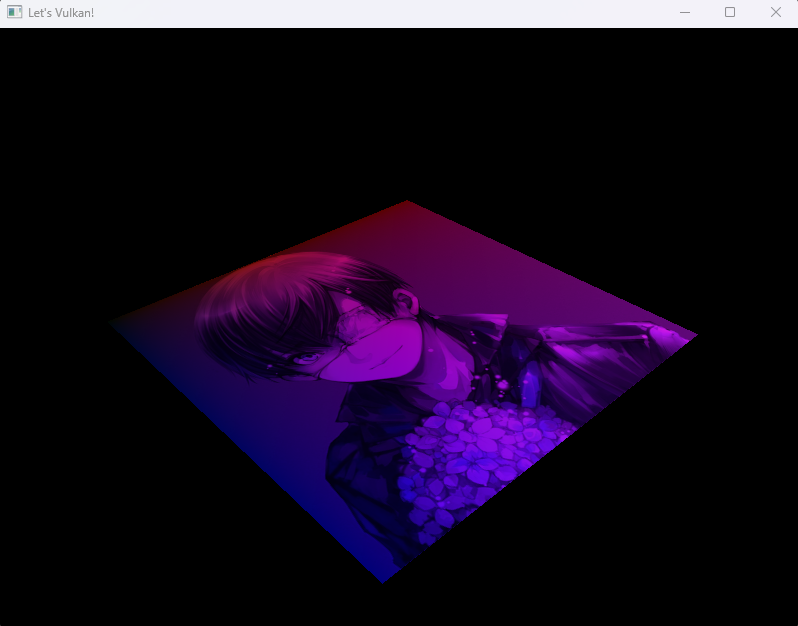
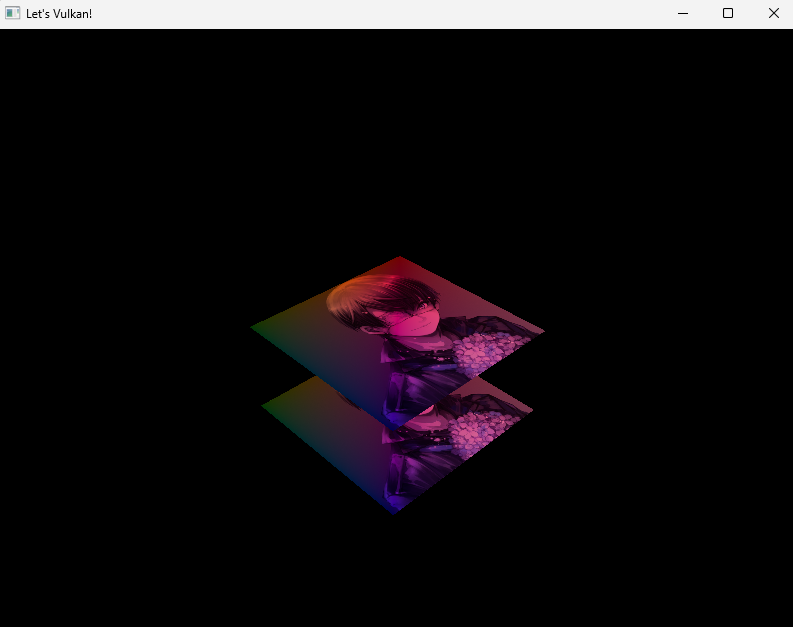
depth buffering

diff --git a/LearningVulkan/LearningVulkan.cpp b/LearningVulkan/LearningVulkan.cpp
@@ -7,6 +7,7 @@
 #define GLFW_EXPOSE_NATIVE_WIN32
 #include <GLFW/glfw3native.h>
 #define GLM_FORCE_RADIANS
+#define GLM_FORCE_DEPTH_ZERO_TO_ONE
 #include <glm/glm.hpp>
 #include <glm/gtc/matrix_transform.hpp>
 #define STB_IMAGE_IMPLEMENTATION
@@ -42,7 +43,7 @@ constexpr bool enableValidationLayers = true;
 
 
 struct Vertex {
-    glm::vec2 pos;
+    glm::vec3 pos;
     glm::vec3 color;
     glm::vec2 texCoord;
 
@@ -53,21 +54,28 @@ struct Vertex {
 
     static std::array<vk::VertexInputAttributeDescription, 3> getAttributeDescriptions()
     {
-        return { { { .location = 0, .binding = 0, .format = vk::Format::eR32G32Sfloat, .offset = offsetof(Vertex, pos) },
+        return { { { .location = 0, .binding = 0, .format = vk::Format::eR32G32B32Sfloat, .offset = offsetof(Vertex, pos) },
                  { .location = 1, .binding = 0, .format = vk::Format::eR32G32B32Sfloat, .offset = offsetof(Vertex, color) },
                  { .location = 2, .binding = 0, .format = vk::Format::eR32G32Sfloat, .offset = offsetof(Vertex, texCoord) } } };
     }
 };
 
 const std::vector<Vertex> vertices = {
-    { { -1.0f, -1.0f },{ 1.0f, 0.0f, 0.0f },{ 1.0f, 0.0f } },
-    { { 1.0f, -1.0f },{ 0.0f, 1.0f, 0.0f },{ 0.0f, 0.0f } },
-    { { 1.0f, 1.0f },{ 0.0f, 0.0f, 1.0f },{ 0.0f, 1.0f } },
-    { { -1.0f, 1.0f },{ 1.0f, 1.0f, 1.0f },{ 1.0f, 1.0f } }
+    { { -0.5f, -0.5f, 0.0f },{ 1.0f, 0.0f, 0.0f },{ 0.0f, 0.0f } },
+    { { 0.5f, -0.5f, 0.0f },{ 0.0f, 1.0f, 0.0f },{ 1.0f, 0.0f } },
+    { { 0.5f, 0.5f, 0.0f },{ 0.0f, 0.0f, 1.0f },{ 1.0f, 1.0f } },
+    { { -0.5f, 0.5f, 0.0f },{ 1.0f, 1.0f, 1.0f },{ 0.0f, 1.0f } },
+
+    { { -0.5f, -0.5f, -0.5f },{ 1.0f, 0.0f, 0.0f },{ 0.0f, 0.0f } },
+    { { 0.5f, -0.5f, -0.5f },{ 0.0f, 1.0f, 0.0f },{ 1.0f, 0.0f } },
+    { { 0.5f, 0.5f, -0.5f },{ 0.0f, 0.0f, 1.0f },{ 1.0f, 1.0f } },
+    { { -0.5f, 0.5f, -0.5f },{ 1.0f, 1.0f, 1.0f },{ 0.0f, 1.0f } }
 };
 
 const std::vector<uint16_t> indices = {
-    0, 1, 2, 2, 3, 0 };
+    0, 1, 2, 2, 3, 0,
+    4, 5, 6, 6, 7, 4
+};
 
 struct UniformBufferObject
 {
@@ -103,6 +111,10 @@ private:
     vk::raii::DescriptorPool            descriptorPool          = nullptr;
     vk::raii::CommandPool               commandPool             = nullptr;
 
+    vk::raii::Image                     depthImage              = nullptr;
+    vk::raii::DeviceMemory              depthImageMemory        = nullptr;
+    vk::raii::ImageView                 depthImageView          = nullptr;
+
     vk::raii::Image                     textureImage            = nullptr;
     vk::raii::DeviceMemory              textureImageMemory      = nullptr;
     vk::raii::ImageView                 textureImageView        = nullptr;
@@ -129,7 +141,10 @@ private:
     vk::SurfaceFormatKHR                swapChainSurfaceFormat;
 
 
-    std::vector<const char*>            requiredDeviceExtension = { vk::KHRSwapchainExtensionName };
+    std::vector<const char*> requiredDeviceExtension = {
+        vk::KHRSwapchainExtensionName,
+        vk::KHRSpirv14ExtensionName,
+        vk::KHRSynchronization2ExtensionName };
 
     uint32_t                            queueIndex = ~0;
     uint32_t                            frameIndex = 0;
@@ -165,6 +180,7 @@ private:
         createDescriptorSetLayout();
         createGraphicsPipeline();
         createCommandPool();
+        createDepthResources();
         createTextureImage();
         createTextureImageView();
         createTextureSampler();
@@ -177,9 +193,39 @@ private:
         createSyncObjects();
     }
 
+    void createDepthResources()
+    {
+        vk::Format depthFormat = findDepthFormat();
+
+        std::tie(depthImage, depthImageMemory) = createImage(swapChainExtent.width, swapChainExtent.height, depthFormat, vk::ImageTiling::eOptimal, vk::ImageUsageFlagBits::eDepthStencilAttachment, vk::MemoryPropertyFlagBits::eDeviceLocal);
+        depthImageView = createImageView(depthImage, depthFormat, vk::ImageAspectFlagBits::eDepth);
+    }
+
+    vk::Format findSupportedFormat(const std::vector<vk::Format>& candidates, vk::ImageTiling tiling, vk::FormatFeatureFlags features)
+    {
+        for (const auto format : candidates)
+        {
+            vk::FormatProperties props = physicalDevice.getFormatProperties(format);
+            if (((tiling == vk::ImageTiling::eLinear) && ((props.linearTilingFeatures & features) == features)) ||
+                ((tiling == vk::ImageTiling::eOptimal) && ((props.optimalTilingFeatures & features) == features)))
+            {
+                return format;
+            }
+        }
+
+        throw std::runtime_error("failed to find supported format!");
+    }
+
+    vk::Format findDepthFormat()
+    {
+        return findSupportedFormat({ vk::Format::eD32Sfloat, vk::Format::eD32SfloatS8Uint, vk::Format::eD24UnormS8Uint },
+            vk::ImageTiling::eOptimal,
+            vk::FormatFeatureFlagBits::eDepthStencilAttachment);
+    }
+
     void createTextureImageView()
     {
-        textureImageView = createImageView(*textureImage, vk::Format::eR8G8B8A8Srgb);
+        textureImageView = createImageView(*textureImage, vk::Format::eR8G8B8A8Srgb, vk::ImageAspectFlagBits::eColor);
     }
 
     void createTextureSampler()
@@ -199,13 +245,13 @@ private:
         textureSampler = vk::raii::Sampler(device, samplerInfo);
     }
 
-    vk::raii::ImageView createImageView(vk::Image const& image, vk::Format format)
+    vk::raii::ImageView createImageView(vk::Image const& image, vk::Format format, vk::ImageAspectFlags aspectFlags)
     {
         vk::ImageViewCreateInfo viewInfo{
             .image = image,
             .viewType = vk::ImageViewType::e2D,
             .format = format,
-            .subresourceRange = { .aspectMask = vk::ImageAspectFlagBits::eColor, .baseMipLevel = 0, .levelCount = 1, .baseArrayLayer = 0, .layerCount = 1 } };
+            .subresourceRange = { .aspectMask = aspectFlags, .baseMipLevel = 0, .levelCount = 1, .baseArrayLayer = 0, .layerCount = 1 } };
         return vk::raii::ImageView(device, viewInfo);
     }
 
@@ -501,6 +547,7 @@ private:
 
         createSwapChain();
         createImageViews();
+        createDepthResources();
         createGraphicsPipeline();
 
         for (size_t i = 0; i < swapChainImages.size(); ++i)
@@ -623,13 +670,14 @@ private:
     }
 
     void transition_image_layout(
-        uint32_t                imageIndex,
+        vk::Image               image,
         vk::ImageLayout         old_layout,
         vk::ImageLayout         new_layout,
         vk::AccessFlags2        src_access_mask,
         vk::AccessFlags2        dst_access_mask,
         vk::PipelineStageFlags2 src_stage_mask,
-        vk::PipelineStageFlags2 dst_stage_mask)
+        vk::PipelineStageFlags2 dst_stage_mask,
+        vk::ImageAspectFlags    image_aspect_flags)
     {
         vk::ImageMemoryBarrier2 barrier = {};
         barrier.srcStageMask = src_stage_mask;
@@ -640,9 +688,9 @@ private:
         barrier.newLayout = new_layout;
         barrier.srcQueueFamilyIndex = VK_QUEUE_FAMILY_IGNORED;
         barrier.dstQueueFamilyIndex = VK_QUEUE_FAMILY_IGNORED;
-        barrier.image = swapChainImages[imageIndex];
+        barrier.image = image;
         barrier.subresourceRange = {
-               barrier.subresourceRange.aspectMask = vk::ImageAspectFlagBits::eColor,
+               barrier.subresourceRange.aspectMask = image_aspect_flags,
                barrier.subresourceRange.baseMipLevel = 0,
                barrier.subresourceRange.levelCount = 1,
                barrier.subresourceRange.baseArrayLayer = 0,
@@ -660,30 +708,53 @@ private:
         commandBuffer.begin({});
 
         transition_image_layout(
-            imageIndex,
+            swapChainImages[imageIndex],
             vk::ImageLayout::eUndefined,
             vk::ImageLayout::eColorAttachmentOptimal,
             {},
             vk::AccessFlagBits2::eColorAttachmentWrite,
             vk::PipelineStageFlagBits2::eColorAttachmentOutput,
-            vk::PipelineStageFlagBits2::eColorAttachmentOutput
+            vk::PipelineStageFlagBits2::eColorAttachmentOutput,
+            vk::ImageAspectFlagBits::eColor
+        );
+
+        transition_image_layout(
+            *depthImage,
+            vk::ImageLayout::eUndefined,
+            vk::ImageLayout::eDepthAttachmentOptimal,
+            vk::AccessFlagBits2::eDepthStencilAttachmentWrite,
+            vk::AccessFlagBits2::eDepthStencilAttachmentWrite,
+            vk::PipelineStageFlagBits2::eEarlyFragmentTests | vk::PipelineStageFlagBits2::eLateFragmentTests,
+            vk::PipelineStageFlagBits2::eEarlyFragmentTests | vk::PipelineStageFlagBits2::eLateFragmentTests,
+            vk::ImageAspectFlagBits::eDepth
         );
         vk::ClearValue clearColor = vk::ClearColorValue(0.0f, 0.0f, 0.0f, 1.0f);
-        vk::RenderingAttachmentInfo attachmentInfo = {};
-        attachmentInfo.imageView = swapChainImageViews[imageIndex];
-        attachmentInfo.imageLayout = vk::ImageLayout::eColorAttachmentOptimal;
-        attachmentInfo.loadOp = vk::AttachmentLoadOp::eClear;
-        attachmentInfo.storeOp = vk::AttachmentStoreOp::eStore;
-        attachmentInfo.clearValue = clearColor;
+        vk::ClearValue clearDepth = vk::ClearDepthStencilValue(1.0f, 0);
+
+        vk::RenderingAttachmentInfo colorAttachmentInfo = {};
+        colorAttachmentInfo.imageView = swapChainImageViews[imageIndex];
+        colorAttachmentInfo.imageLayout = vk::ImageLayout::eColorAttachmentOptimal;
+        colorAttachmentInfo.loadOp = vk::AttachmentLoadOp::eClear;
+        colorAttachmentInfo.storeOp = vk::AttachmentStoreOp::eStore;
+        colorAttachmentInfo.clearValue = clearColor;
+
+        vk::RenderingAttachmentInfo depthAttachmentInfo = {
+            .imageView = depthImageView,
+            .imageLayout = vk::ImageLayout::eDepthAttachmentOptimal,
+            .loadOp = vk::AttachmentLoadOp::eClear,
+            .storeOp = vk::AttachmentStoreOp::eDontCare,
+            .clearValue = clearDepth };
+
         vk::RenderingInfo renderingInfo = {};
         renderingInfo.renderArea = { .offset = { 0, 0 }, .extent = swapChainExtent };
         renderingInfo.layerCount = 1;
         renderingInfo.colorAttachmentCount = 1;
-        renderingInfo.pColorAttachments = &attachmentInfo;
+        renderingInfo.pColorAttachments = &colorAttachmentInfo;
+        renderingInfo.pDepthAttachment = &depthAttachmentInfo;
 
         commandBuffer.beginRendering(renderingInfo);
         commandBuffer.bindPipeline(vk::PipelineBindPoint::eGraphics, *graphicsPipeline);
-        // negative height flips Y for Vulkan.
+        
         commandBuffer.setViewport(0, vk::Viewport(0.0f, static_cast<float>(swapChainExtent.height), static_cast<float>(swapChainExtent.width), -static_cast<float>(swapChainExtent.height), 0.0f, 1.0f));
         commandBuffer.setScissor(0, vk::Rect2D(vk::Offset2D(0, 0), swapChainExtent));
         commandBuffer.bindVertexBuffers(0, *vertexBuffer, { 0 });
@@ -693,13 +764,14 @@ private:
         commandBuffer.endRendering();
 
         transition_image_layout(
-            imageIndex,
+            swapChainImages[imageIndex],
             vk::ImageLayout::eColorAttachmentOptimal,
             vk::ImageLayout::ePresentSrcKHR,
             vk::AccessFlagBits2::eColorAttachmentWrite,
             {},
             vk::PipelineStageFlagBits2::eColorAttachmentOutput,
-            vk::PipelineStageFlagBits2::eBottomOfPipe
+            vk::PipelineStageFlagBits2::eBottomOfPipe,
+            vk::ImageAspectFlagBits::eColor
         );
         commandBuffer.end();
     }
@@ -730,7 +802,7 @@ private:
         swapChainImageViews.reserve(swapChainImages.size());
         for (auto& image : swapChainImages)
         {
-            swapChainImageViews.emplace_back(createImageView(image, swapChainSurfaceFormat.format));
+            swapChainImageViews.emplace_back(createImageView(image, swapChainSurfaceFormat.format, vk::ImageAspectFlagBits::eColor));
         }
     }
 
@@ -785,6 +857,13 @@ private:
         multisampling.rasterizationSamples = vk::SampleCountFlagBits::e1;
         multisampling.sampleShadingEnable = vk::False;
 
+        vk::PipelineDepthStencilStateCreateInfo depthStencil{
+            .depthTestEnable = vk::True,
+            .depthWriteEnable = vk::True,
+            .depthCompareOp = vk::CompareOp::eLess,
+            .depthBoundsTestEnable = vk::False,
+            .stencilTestEnable = vk::False };
+
         vk::PipelineColorBlendAttachmentState colorBlendAttachment{};
         colorBlendAttachment.blendEnable = vk::False;
         colorBlendAttachment.colorWriteMask = vk::ColorComponentFlagBits::eR | vk::ColorComponentFlagBits::eG | vk::ColorComponentFlagBits::eB | vk::ColorComponentFlagBits::eA;
@@ -805,6 +884,8 @@ private:
 		pipelineLayoutInfo.pSetLayouts = &*descriptorSetLayout;
         pipelineLayoutInfo.pushConstantRangeCount = 0;
         pipelineLayout = vk::raii::PipelineLayout(device, pipelineLayoutInfo);
+
+        vk::Format depthFormat = findDepthFormat();
 
         vk::PipelineRenderingCreateInfo pipelineRenderingCreateInfo{};
         pipelineRenderingCreateInfo.colorAttachmentCount = 1;
@@ -827,11 +908,13 @@ private:
         pipelineCreateInfo.pDynamicState = &dynamicState;
         pipelineCreateInfo.layout = pipelineLayout;
         pipelineCreateInfo.renderPass = nullptr;
+        pipelineCreateInfo.pDepthStencilState = &depthStencil;
 
         auto& renderingInfo = pipelineCreateInfoChain.get<vk::PipelineRenderingCreateInfo>();
 
         renderingInfo.colorAttachmentCount = 1;
         renderingInfo.pColorAttachmentFormats = &swapChainSurfaceFormat.format;
+        renderingInfo.depthAttachmentFormat = depthFormat;
 
         graphicsPipeline = vk::raii::Pipeline(device, nullptr, pipelineCreateInfoChain.get<vk::GraphicsPipelineCreateInfo>());
     }
